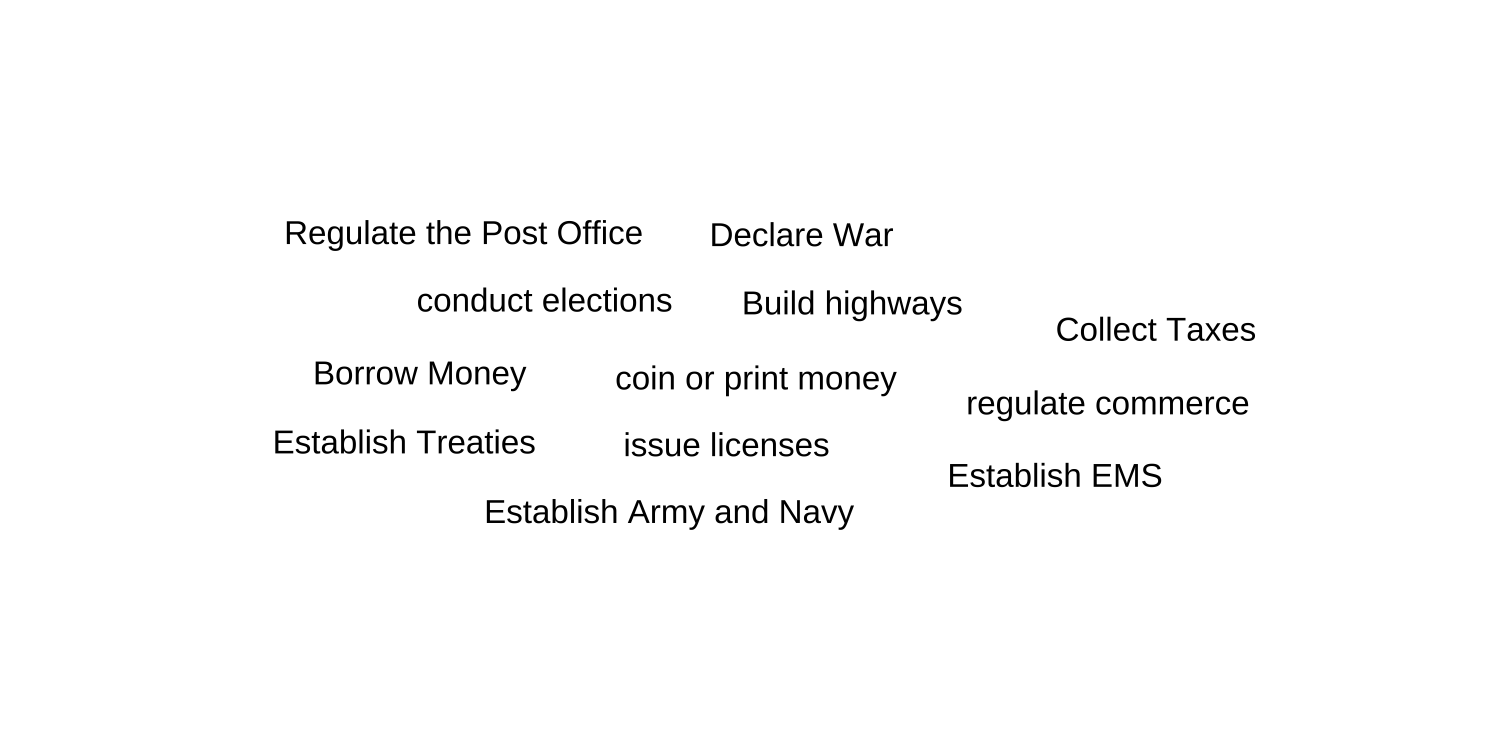
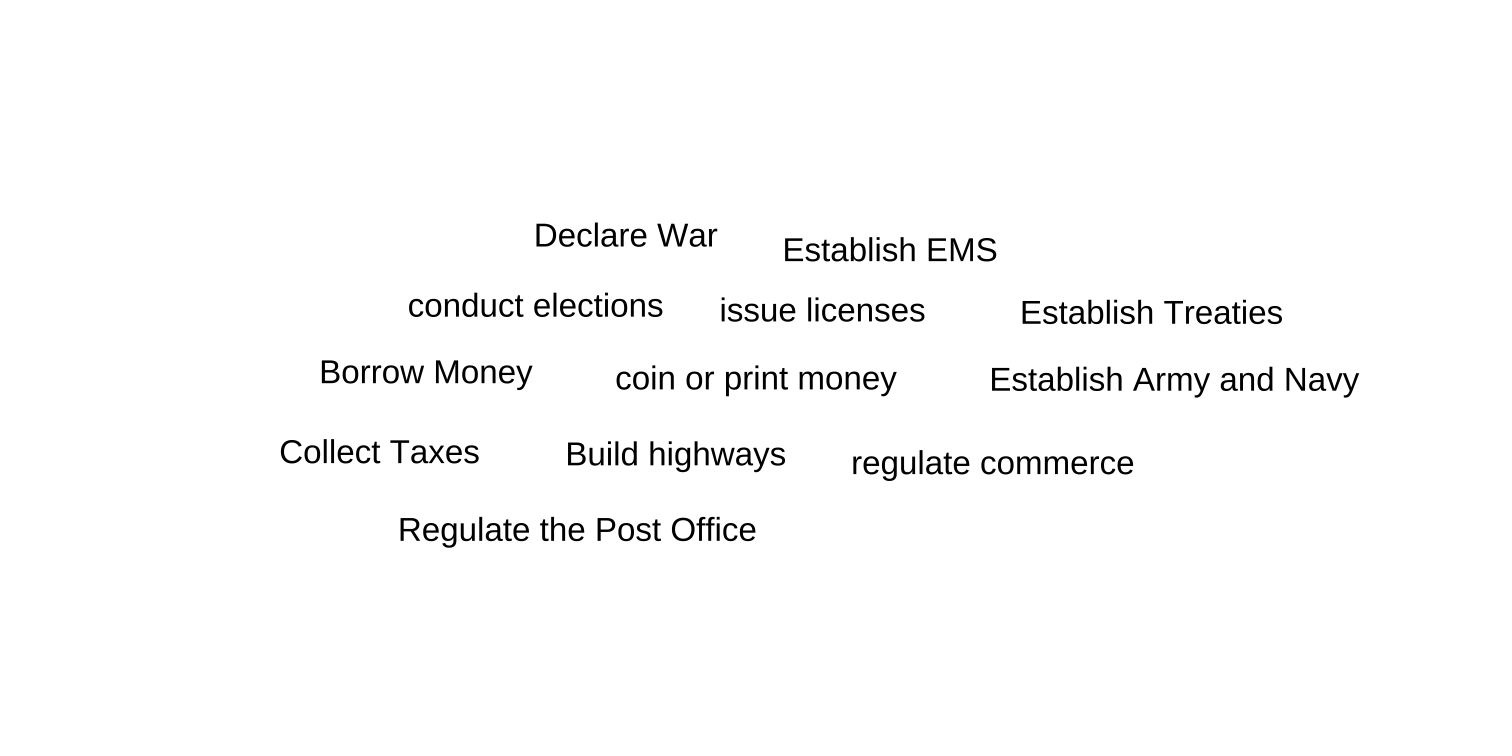
add races to the bottom slide

diff --git a/static/slides/Class-05/Federalism.html b/static/slides/Class-05/Federalism.html
@@ -466,7 +466,7 @@ h2, h3 {
 
 
 ---
-class: center, middle
+class: center, middle, inverse
 
 # The Constitution 
 
@@ -496,7 +496,7 @@ The executive branch can veto legislation. Interpret the laws and enforce them i
 
 
 ---
-class: center, middle 
+class: center, middle, inverse
 
 .col[# Federalism]
 
@@ -627,16 +627,16 @@ Federalism means that states relinquish some of their sovereignty to the federal
 
 - A system of power in which power is divided, by a Constitution, between local, state, and federal governments 
 
-- promotes individual intention 
+- promotes individual attention 
 
 
 ]
 
 .pull-right[ ### Alternatives
 
-- .bold[Unitary System]: A centralized government system in which lower levels have little power or autonomy from central government
+- **Unitary System**: A centralized government system in which lower levels have little power or autonomy from central government
 
-- .bold[Confederacy]: Authority is held by individual states, and powers are delegated to the central government sparingly 
+- **Confederacy**: Authority is held by individual states, and powers are delegated to the central government sparingly 
 
 ]
 
@@ -659,9 +659,7 @@ Preserves the union
 
 Reduces compliance costs
 
-Provides national public goods
-
-Reduces negative externalities
+Provides national public goods &amp; reduce negative externalities
 
 Protects minority rights
 
@@ -696,12 +694,12 @@ According to this argument, when states are allowed to have too much independent
 Generally speaking, uniform national rules and standards reduce the opportunity costs associated with complying with government laws and regulations. Consequently, an argument made for greater national government authority is that the national government is best positioned to create these uniform national rules and standards and, thus, to provide the benefit of reduced compliance costs.
 
 
-reduce negative externalities:
+public goods and reduce negative externalities:
 
 Proponents of a strong national government contend that the national government is more likely than state governments to identify and provide nationwide public goods. The states, according to this argument, are too limited in their views and/or too selfish in their motives to overcome the temptation to free ride.
 
 
-Pollution is a good example of a negative externality. In economics, externalities are a cost or benefit that is imposed onto a third party that is not incorporated into the final cost. If you pollute a ton by just dumping waste into a river or run really cheap but dirty production your costs are going to be lower and you don't have to charge your customers for it but it is not really 
+Similarly, due to shortsightedness and/or selfishness, states are often tempted to impose costs and risks on other states. Pollution is a good example of a negative externality. In economics, externalities are a cost or benefit that is imposed onto a third party that is not incorporated into the final cost. If you pollute a ton by just dumping waste into a river or run really cheap but dirty production your costs are going to be lower and you don't have to charge your customers for it but it is not really 
 
 
 preventing races to the bottom 
@@ -732,10 +730,26 @@ If individuals or businesses dislike the package of policies enacted by their st
 
 ---
 
+
+---
+## Races to the Bottom
+
+<div class="vembedr">
+<div>
+<iframe src="https://www.youtube.com/embed/3XE5m_meLVw?start=81" width="533" height="300" frameborder="0" allowfullscreen="" data-external="1"></iframe>
+</div>
+</div>
+
+
+
+---
+
+
+
 ---
 ## Who Has Authority Over What?
 
-&lt;img src="figs/unnamed-chunk-3-1.png" width="100%" style="display: block; margin: auto;" /&gt;
+&lt;img src="figs/unnamed-chunk-4-1.png" width="100%" style="display: block; margin: auto;" /&gt;
 ???
 Answers: 
 Money – National 
